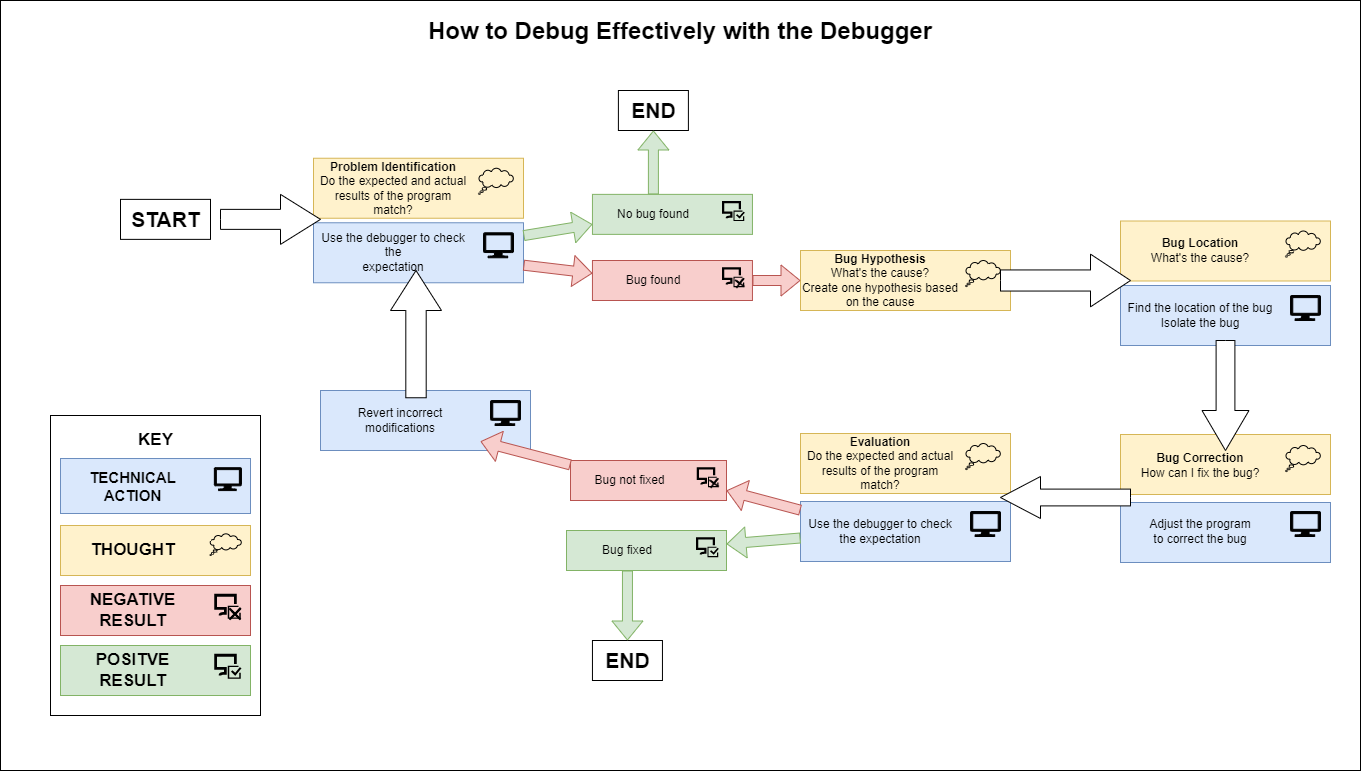
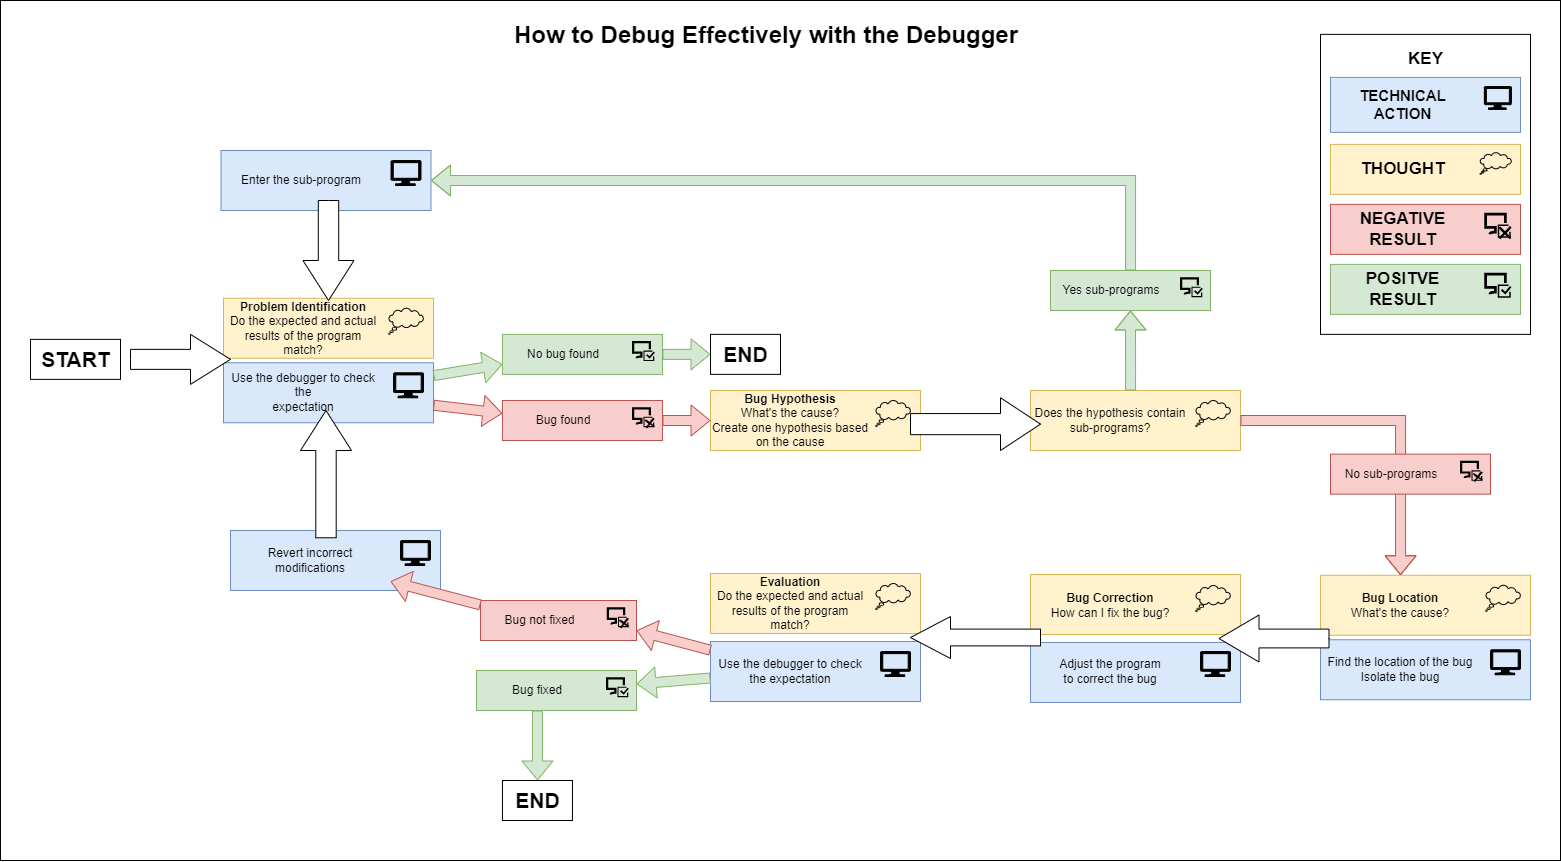
Update debugging framework for sub-programs

diff --git a/implementation/webapp/view/exerciseFiles/example/main.cpp b/implementation/webapp/view/exerciseFiles/example/main.cpp
@@ -5,7 +5,7 @@ int main()
 {
     Exercise exercise;
 
-    std::cout << exercise.leastCommonMultiple(5, 7) << std::endl;
+    std::cout << exercise.leastCommonMultiple(7, 5) << std::endl;
 
     return 0;
 }
